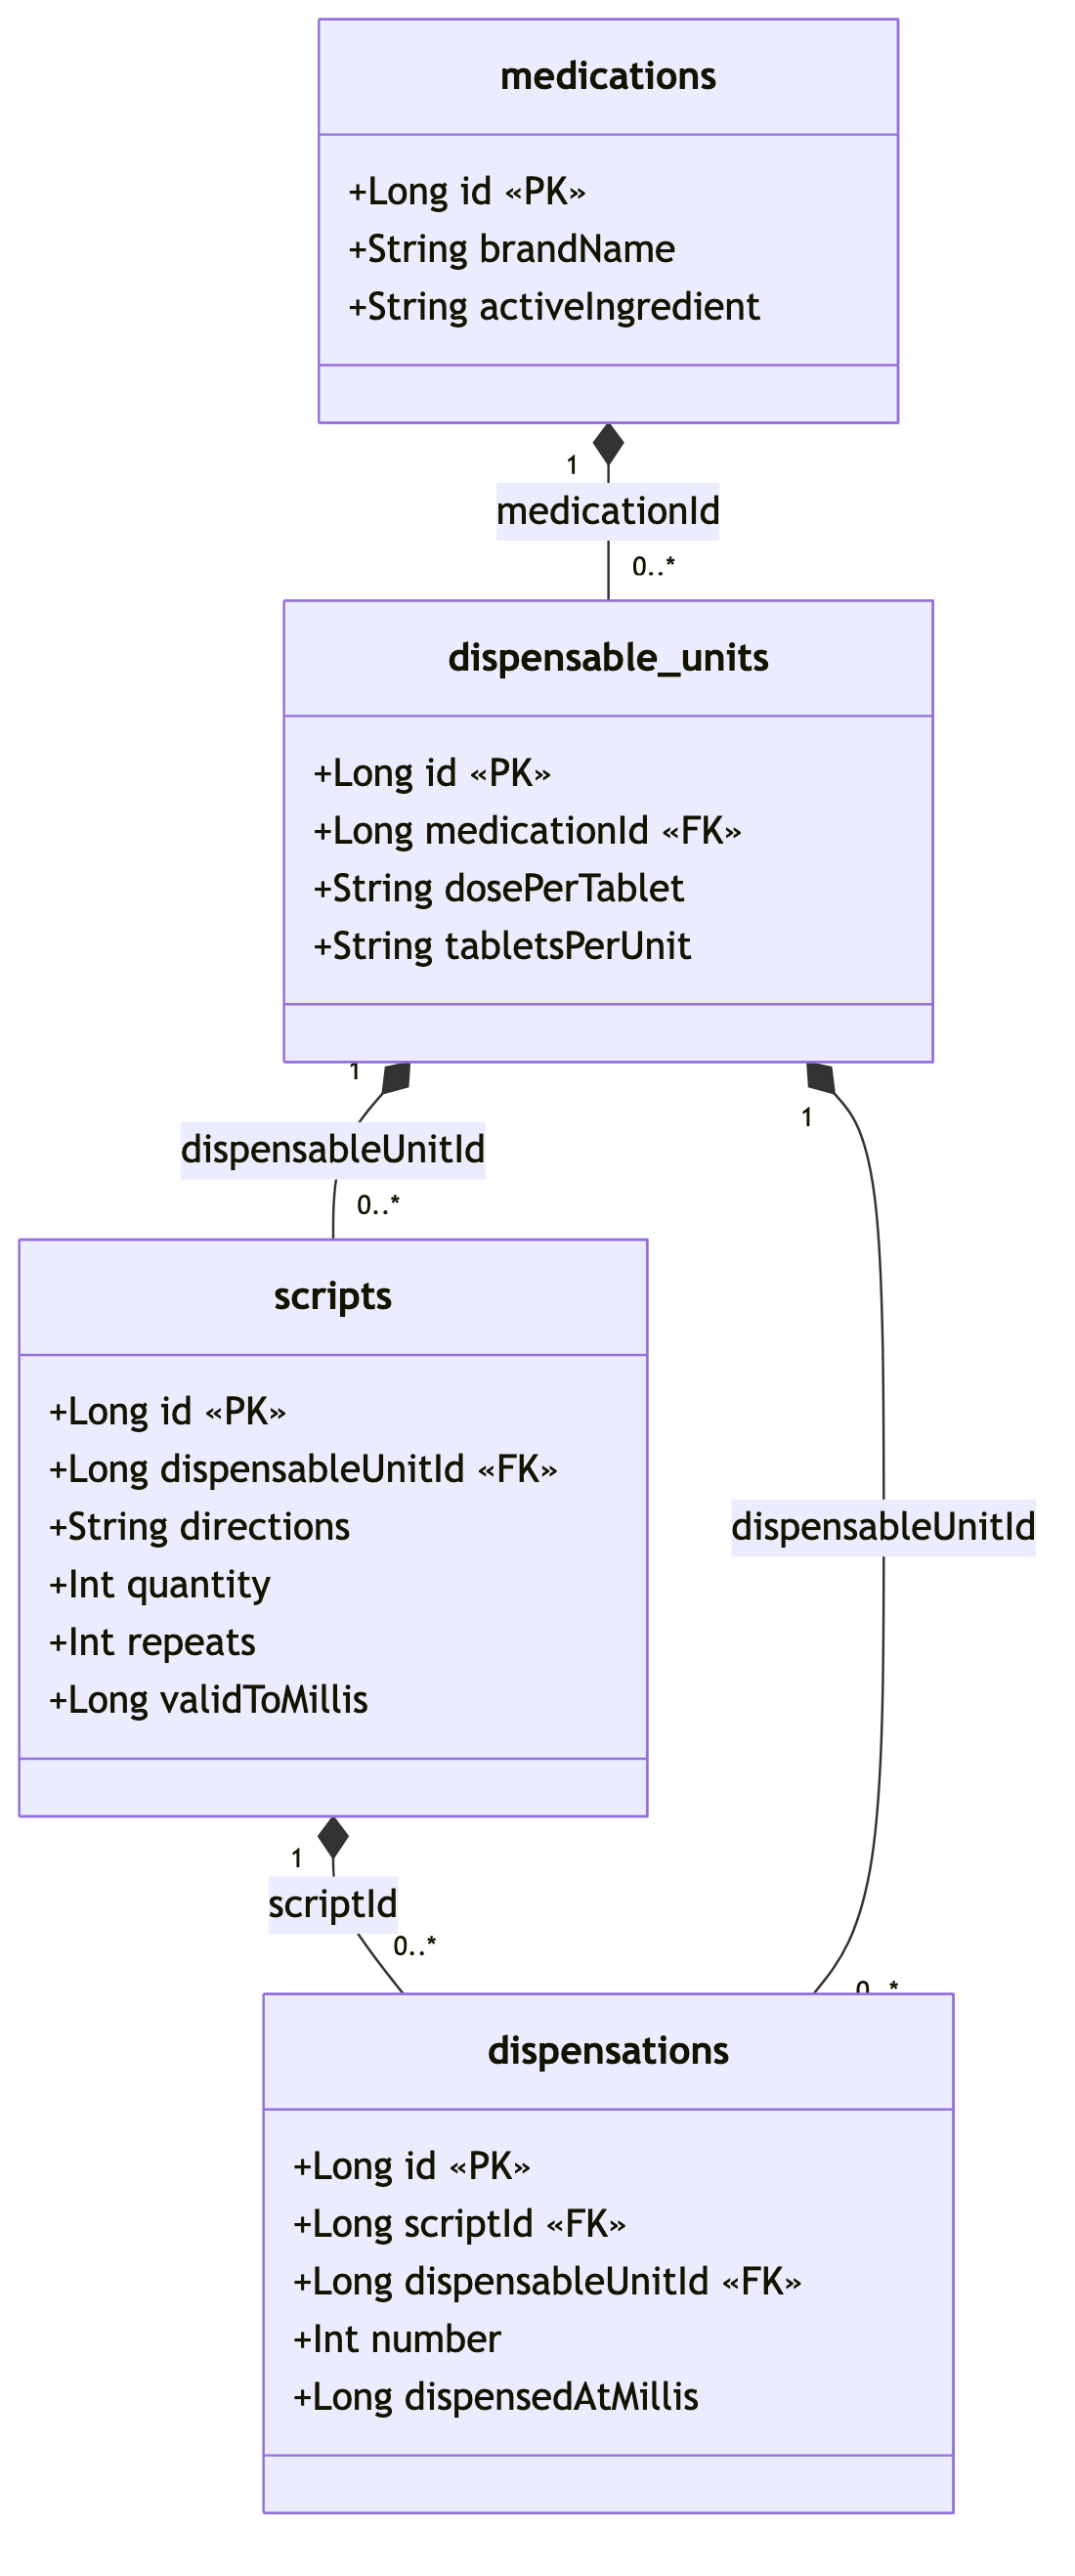
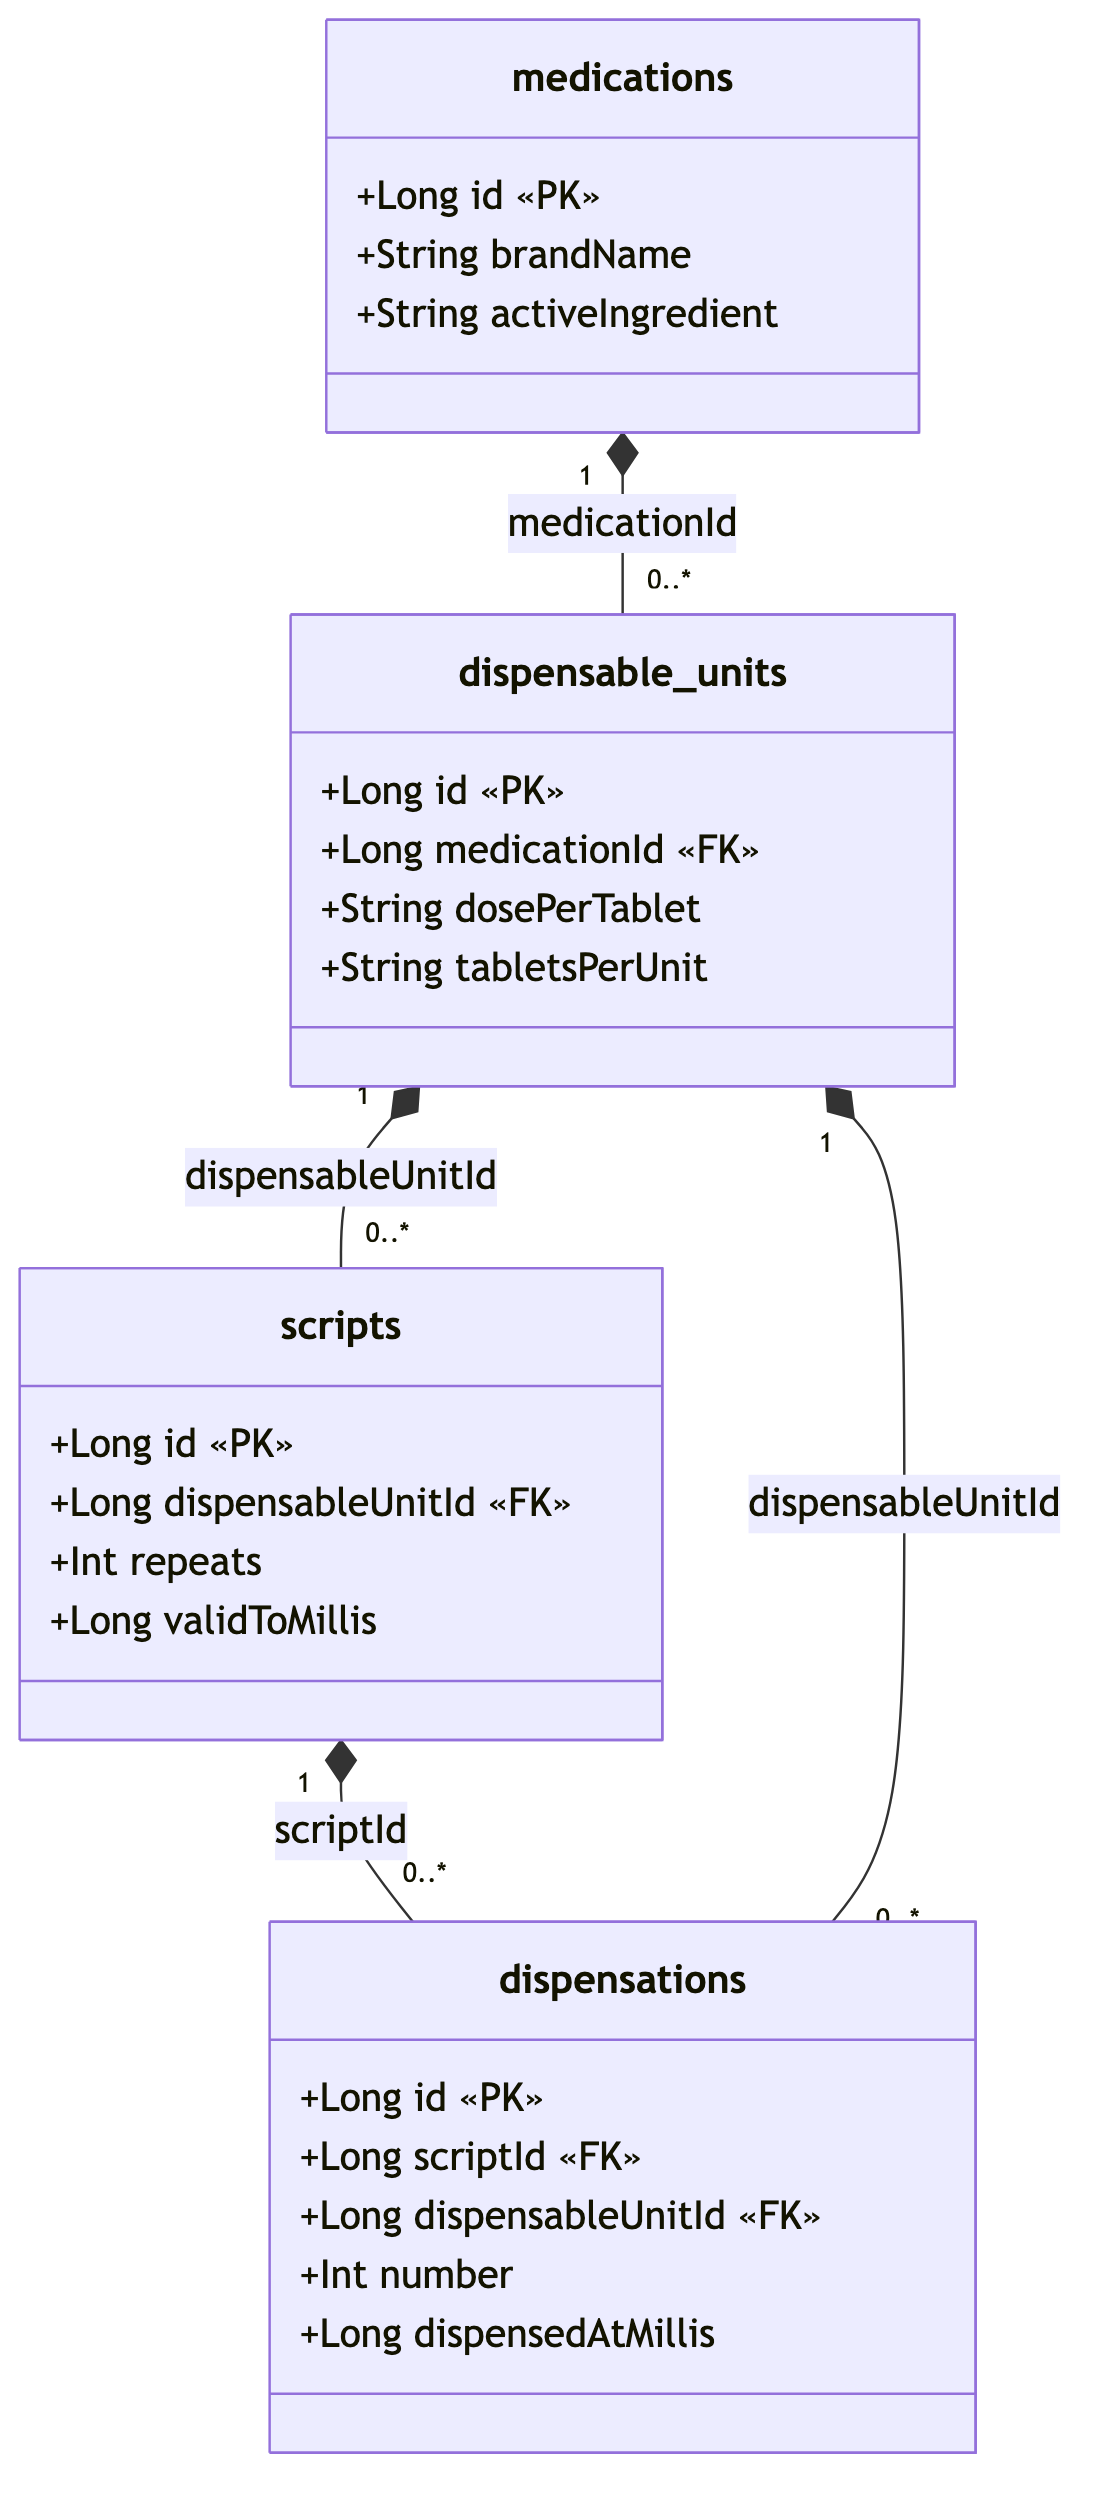
Remove directions and quantity columns from scripts table
The scripts table no longer stores prescription directions or a
quantity/dispensations-allowed limit. A script now holds only its
dispensable unit, repeats, and valid-to date; the dispensed count
remains derived from the dispensations table.

Drops the fields across the entity, domain model, details projection,
DAO query, seeder, and the Add Script form (state, actions, validation,
and the removed text fields). The script dropdown label now shows just
the derived dispensed count. Bumps the DB version (destructive
migration) and updates DATABASE_SCHEMA.md + the UML diagram.

diff --git a/app/src/main/java/com/example/aitoui/data/DatabaseSeeder.kt b/app/src/main/java/com/example/aitoui/data/DatabaseSeeder.kt
@@ -34,19 +34,19 @@ object DatabaseSeeder {
     )
 
     /**
-     * One script per medication format. Columns: brand (must match a MEDICATIONS entry), directions,
-     * quantity (total dispensations allowed), repeats, valid-for (days), dispensed (times dispensed
-     * so far, ≤ quantity). The inventory shows "dispensed/quantity" per format.
+     * One script per medication format. Columns: brand (must match a MEDICATIONS entry), repeats,
+     * valid-for (days), dispensed (times dispensed so far). The inventory shows the dispensed count
+     * per format.
      */
     private val SCRIPTS = listOf(
-        ScriptSeed("Panadol", "Take two tablets every 4–6 hours as needed", 6, 5, 180, 2),
-        ScriptSeed("Amoxil", "Take one capsule three times a day for 7 days", 1, 0, 30, 1),
-        ScriptSeed("Augmentin", "Take one tablet twice a day for 5 days", 1, 0, 30, 0),
-        ScriptSeed("Ventolin", "Two puffs as needed for shortness of breath", 4, 3, 365, 1),
-        ScriptSeed("Lipitor", "Take one tablet at night", 6, 5, 365, 3),
-        ScriptSeed("Zoloft", "Take one tablet in the morning", 6, 5, 180, 6),
-        ScriptSeed("Nexium", "Take one tablet before breakfast", 3, 2, 90, 1),
-        ScriptSeed("Diabex", "Take one tablet twice a day with meals", 6, 5, 365, 4),
+        ScriptSeed("Panadol", 5, 180, 2),
+        ScriptSeed("Amoxil", 0, 30, 1),
+        ScriptSeed("Augmentin", 0, 30, 0),
+        ScriptSeed("Ventolin", 3, 365, 1),
+        ScriptSeed("Lipitor", 5, 365, 3),
+        ScriptSeed("Zoloft", 5, 180, 6),
+        ScriptSeed("Nexium", 2, 90, 1),
+        ScriptSeed("Diabex", 5, 365, 4),
     )
 
     suspend fun seedIfEmpty(
@@ -80,8 +80,6 @@ object DatabaseSeeder {
             val scriptId = scriptRepository.add(
                 Script(
                     dispensableUnitId = unitId,
-                    directions = seed.directions,
-                    quantity = seed.quantity,
                     repeats = seed.repeats,
                     validToMillis = nowMillis + seed.validForDays * DAY_MILLIS,
                 )
@@ -110,8 +108,6 @@ object DatabaseSeeder {
 
     private data class ScriptSeed(
         val brand: String,
-        val directions: String,
-        val quantity: Int,
         val repeats: Int,
         val validForDays: Long,
         val dispensed: Int,

diff --git a/app/src/main/java/com/example/aitoui/script/AddScriptScreen.kt b/app/src/main/java/com/example/aitoui/script/AddScriptScreen.kt
@@ -142,28 +142,6 @@ fun AddScriptScreen(
             }
 
             OutlinedTextField(
-                value = state.directions,
-                onValueChange = { onAction(AddScriptAction.DirectionsChanged(it)) },
-                label = { Text("Directions") },
-                placeholder = { Text("e.g. Take one tablet twice a day") },
-                singleLine = true,
-                modifier = Modifier.fillMaxWidth(),
-            )
-
-            OutlinedTextField(
-                value = state.quantity,
-                onValueChange = { onAction(AddScriptAction.QuantityChanged(it)) },
-                label = { Text("Quantity") },
-                singleLine = true,
-                isError = state.quantity.isNotBlank() && !state.quantityValid,
-                supportingText = if (state.quantity.isNotBlank() && !state.quantityValid) {
-                    { Text("Must be greater than 0") }
-                } else null,
-                keyboardOptions = KeyboardOptions(keyboardType = KeyboardType.Number),
-                modifier = Modifier.fillMaxWidth(),
-            )
-
-            OutlinedTextField(
                 value = state.repeats,
                 onValueChange = { onAction(AddScriptAction.RepeatsChanged(it)) },
                 label = { Text("Number of repeats") },
@@ -227,8 +205,6 @@ private fun AddScriptScreenPreview() {
                     MedicationFormatDetails(1, 1, "Panadol", "Paracetamol", "500", "24"),
                 ),
                 selectedFormatId = 1,
-                directions = "Take one tablet twice a day",
-                quantity = "30",
                 repeats = "2",
                 validToMillis = 0L,
             ),

diff --git a/app/src/main/java/com/example/aitoui/script/AddScriptViewModel.kt b/app/src/main/java/com/example/aitoui/script/AddScriptViewModel.kt
@@ -22,8 +22,6 @@ import kotlinx.coroutines.launch
 data class AddScriptState(
     val medicationFormats: List<MedicationFormatDetails> = emptyList(),
     val selectedFormatId: Long? = null,
-    val directions: String = "",
-    val quantity: String = "",
     val repeats: String = "",
     val validToMillis: Long? = null,
 ) {
@@ -32,19 +30,15 @@ data class AddScriptState(
 
     // Basic field validation.
     val formatValid: Boolean get() = selectedFormatId != null
-    val directionsValid: Boolean get() = directions.isNotBlank()
-    val quantityValid: Boolean get() = (quantity.toIntOrNull() ?: 0) > 0
     val repeatsValid: Boolean get() = repeats.toIntOrNull() != null
     val validToValid: Boolean get() = validToMillis != null
 
     val canSave: Boolean
-        get() = formatValid && directionsValid && quantityValid && repeatsValid && validToValid
+        get() = formatValid && repeatsValid && validToValid
 }
 
 sealed interface AddScriptAction {
     data class MedicationFormatSelected(val id: Long) : AddScriptAction
-    data class DirectionsChanged(val value: String) : AddScriptAction
-    data class QuantityChanged(val value: String) : AddScriptAction
     data class RepeatsChanged(val value: String) : AddScriptAction
     data class ValidToChanged(val millis: Long?) : AddScriptAction
     data object Save : AddScriptAction
@@ -78,12 +72,6 @@ class AddScriptViewModel(
             is AddScriptAction.MedicationFormatSelected ->
                 _state.update { it.copy(selectedFormatId = action.id) }
 
-            is AddScriptAction.DirectionsChanged ->
-                _state.update { it.copy(directions = action.value) }
-
-            is AddScriptAction.QuantityChanged ->
-                _state.update { it.copy(quantity = action.value.digitsOnly()) }
-
             is AddScriptAction.RepeatsChanged ->
                 _state.update { it.copy(repeats = action.value.digitsOnly()) }
 
@@ -101,8 +89,6 @@ class AddScriptViewModel(
             scriptRepository.add(
                 Script(
                     dispensableUnitId = current.selectedFormatId!!,
-                    directions = current.directions.trim(),
-                    quantity = current.quantity.toInt(),
                     repeats = current.repeats.toInt(),
                     validToMillis = current.validToMillis!!,
                 )

diff --git a/app/src/main/java/com/example/aitoui/data/ScriptEntity.kt b/app/src/main/java/com/example/aitoui/data/ScriptEntity.kt
@@ -20,8 +20,6 @@ import androidx.room.PrimaryKey
 data class ScriptEntity(
     @PrimaryKey(autoGenerate = true) val id: Long = 0,
     val dispensableUnitId: Long,
-    val directions: String,
-    val quantity: Int,
     val repeats: Int,
     val validToMillis: Long,
 )
@@ -29,8 +27,6 @@ data class ScriptEntity(
 fun ScriptEntity.toDomain(): Script = Script(
     id = id,
     dispensableUnitId = dispensableUnitId,
-    directions = directions,
-    quantity = quantity,
     repeats = repeats,
     validToMillis = validToMillis,
 )
@@ -38,8 +34,6 @@ fun ScriptEntity.toDomain(): Script = Script(
 fun Script.toEntity(): ScriptEntity = ScriptEntity(
     id = id,
     dispensableUnitId = dispensableUnitId,
-    directions = directions,
-    quantity = quantity,
     repeats = repeats,
     validToMillis = validToMillis,
 )

diff --git a/app/src/main/java/com/example/aitoui/data/ScriptDetails.kt b/app/src/main/java/com/example/aitoui/data/ScriptDetails.kt
@@ -9,8 +9,7 @@ data class ScriptDetails(
     val brandName: String,
     val dosePerTablet: String,
     val dispensed: Int,
-    val quantity: Int,
 ) {
-    /** Dropdown label, e.g. "Panadol (500mg) — 2/6". */
-    val label: String get() = "$brandName (${dosePerTablet}mg) — $dispensed/$quantity"
+    /** Dropdown label, e.g. "Panadol (500mg) — 2 dispensed". */
+    val label: String get() = "$brandName (${dosePerTablet}mg) — $dispensed dispensed"
 }

diff --git a/app/src/main/java/com/example/aitoui/data/ScriptDao.kt b/app/src/main/java/com/example/aitoui/data/ScriptDao.kt
@@ -28,8 +28,7 @@ interface ScriptDao {
         """
         SELECT s.id AS scriptId, s.dispensableUnitId AS dispensableUnitId,
                m.brandName AS brandName, du.dosePerTablet AS dosePerTablet,
-               COALESCE((SELECT SUM(d.number) FROM dispensations d WHERE d.scriptId = s.id), 0) AS dispensed,
-               s.quantity AS quantity
+               COALESCE((SELECT SUM(d.number) FROM dispensations d WHERE d.scriptId = s.id), 0) AS dispensed
         FROM scripts s
         JOIN dispensable_units du ON du.id = s.dispensableUnitId
         JOIN medications m ON m.id = du.medicationId

diff --git a/app/src/main/java/com/example/aitoui/data/AppDatabase.kt b/app/src/main/java/com/example/aitoui/data/AppDatabase.kt
@@ -10,7 +10,7 @@ import androidx.room.RoomDatabase
         ScriptEntity::class,
         DispensationEntity::class,
     ],
-    version = 13,
+    version = 15,
     exportSchema = false,
 )
 abstract class AppDatabase : RoomDatabase() {

diff --git a/app/src/main/java/com/example/aitoui/data/Script.kt b/app/src/main/java/com/example/aitoui/data/Script.kt
@@ -7,8 +7,6 @@ package com.example.aitoui.data
 data class Script(
     val id: Long = 0,
     val dispensableUnitId: Long,
-    val directions: String,
-    val quantity: Int,
     val repeats: Int,
     val validToMillis: Long,
 )

diff --git a/app/src/main/java/com/example/aitoui/dispense/DispenseScreen.kt b/app/src/main/java/com/example/aitoui/dispense/DispenseScreen.kt
@@ -226,7 +226,7 @@ private fun DispenseScreenPreview() {
     AitouiTheme {
         DispenseScreen(
             state = DispenseState(
-                scripts = listOf(ScriptDetails(1, 1, "Panadol", "500", 2, 6)),
+                scripts = listOf(ScriptDetails(1, 1, "Panadol", "500", 2)),
                 selectedScriptId = 1,
                 allFormats = listOf(
                     MedicationFormatDetails(1, 1, "Panadol", "Paracetamol", "500", "24"),

diff --git a/DATABASE_SCHEMA.md b/DATABASE_SCHEMA.md
@@ -44,8 +44,6 @@ unit (many scripts → one unit).
 |---|---|---|---|
 | `id` | INTEGER | PK, auto-generated | |
 | `dispensableUnitId` | INTEGER | **FK → `dispensable_units.id`** (ON DELETE CASCADE), indexed | the unit the script is for |
-| `directions` | TEXT | not null | how to take it |
-| `quantity` | INTEGER | not null | total dispensations allowed |
 | `repeats` | INTEGER | not null | |
 | `validToMillis` | INTEGER | not null | "valid to" date, epoch millis |
 
@@ -54,7 +52,7 @@ script's rows in `dispensations`.
 
 ### `dispensations`
 A recorded pharmacy fill: a dispensable unit dispensed `number` times against a script. The sum of a
-script's `number` values is its derived "dispensed" total (shown as "dispensed/quantity").
+script's `number` values is its derived "dispensed" total.
 
 | Column | Type | Constraints | Notes |
 |---|---|---|---|
@@ -105,8 +103,6 @@ classDiagram
     class scripts {
         +Long id «PK»
         +Long dispensableUnitId «FK»
-        +String directions
-        +Int quantity
         +Int repeats
         +Long validToMillis
     }